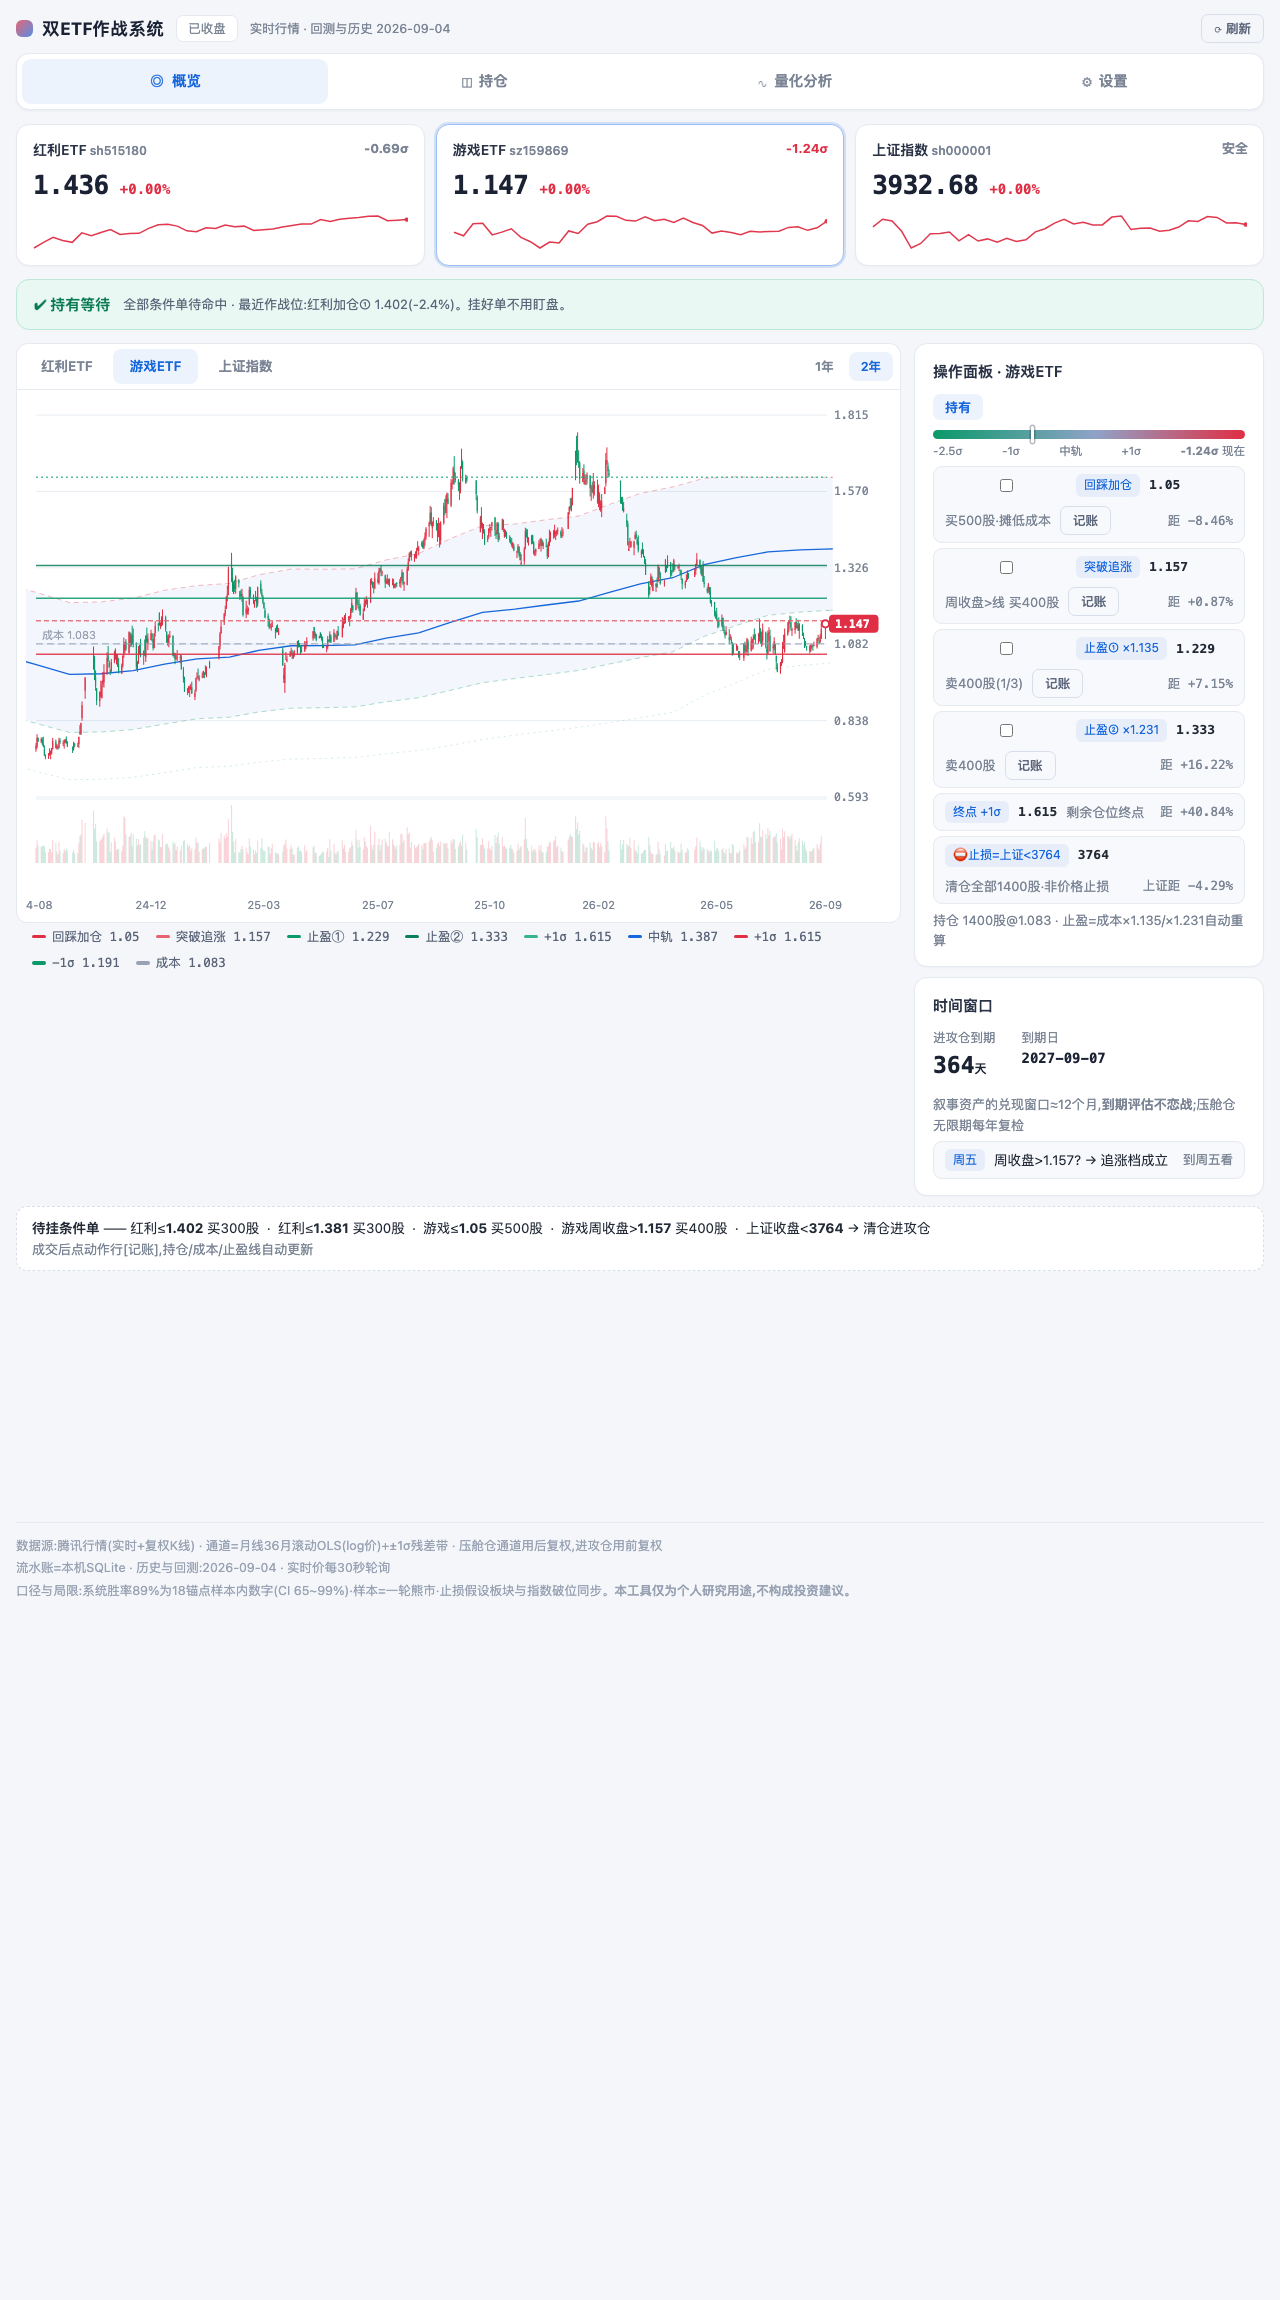
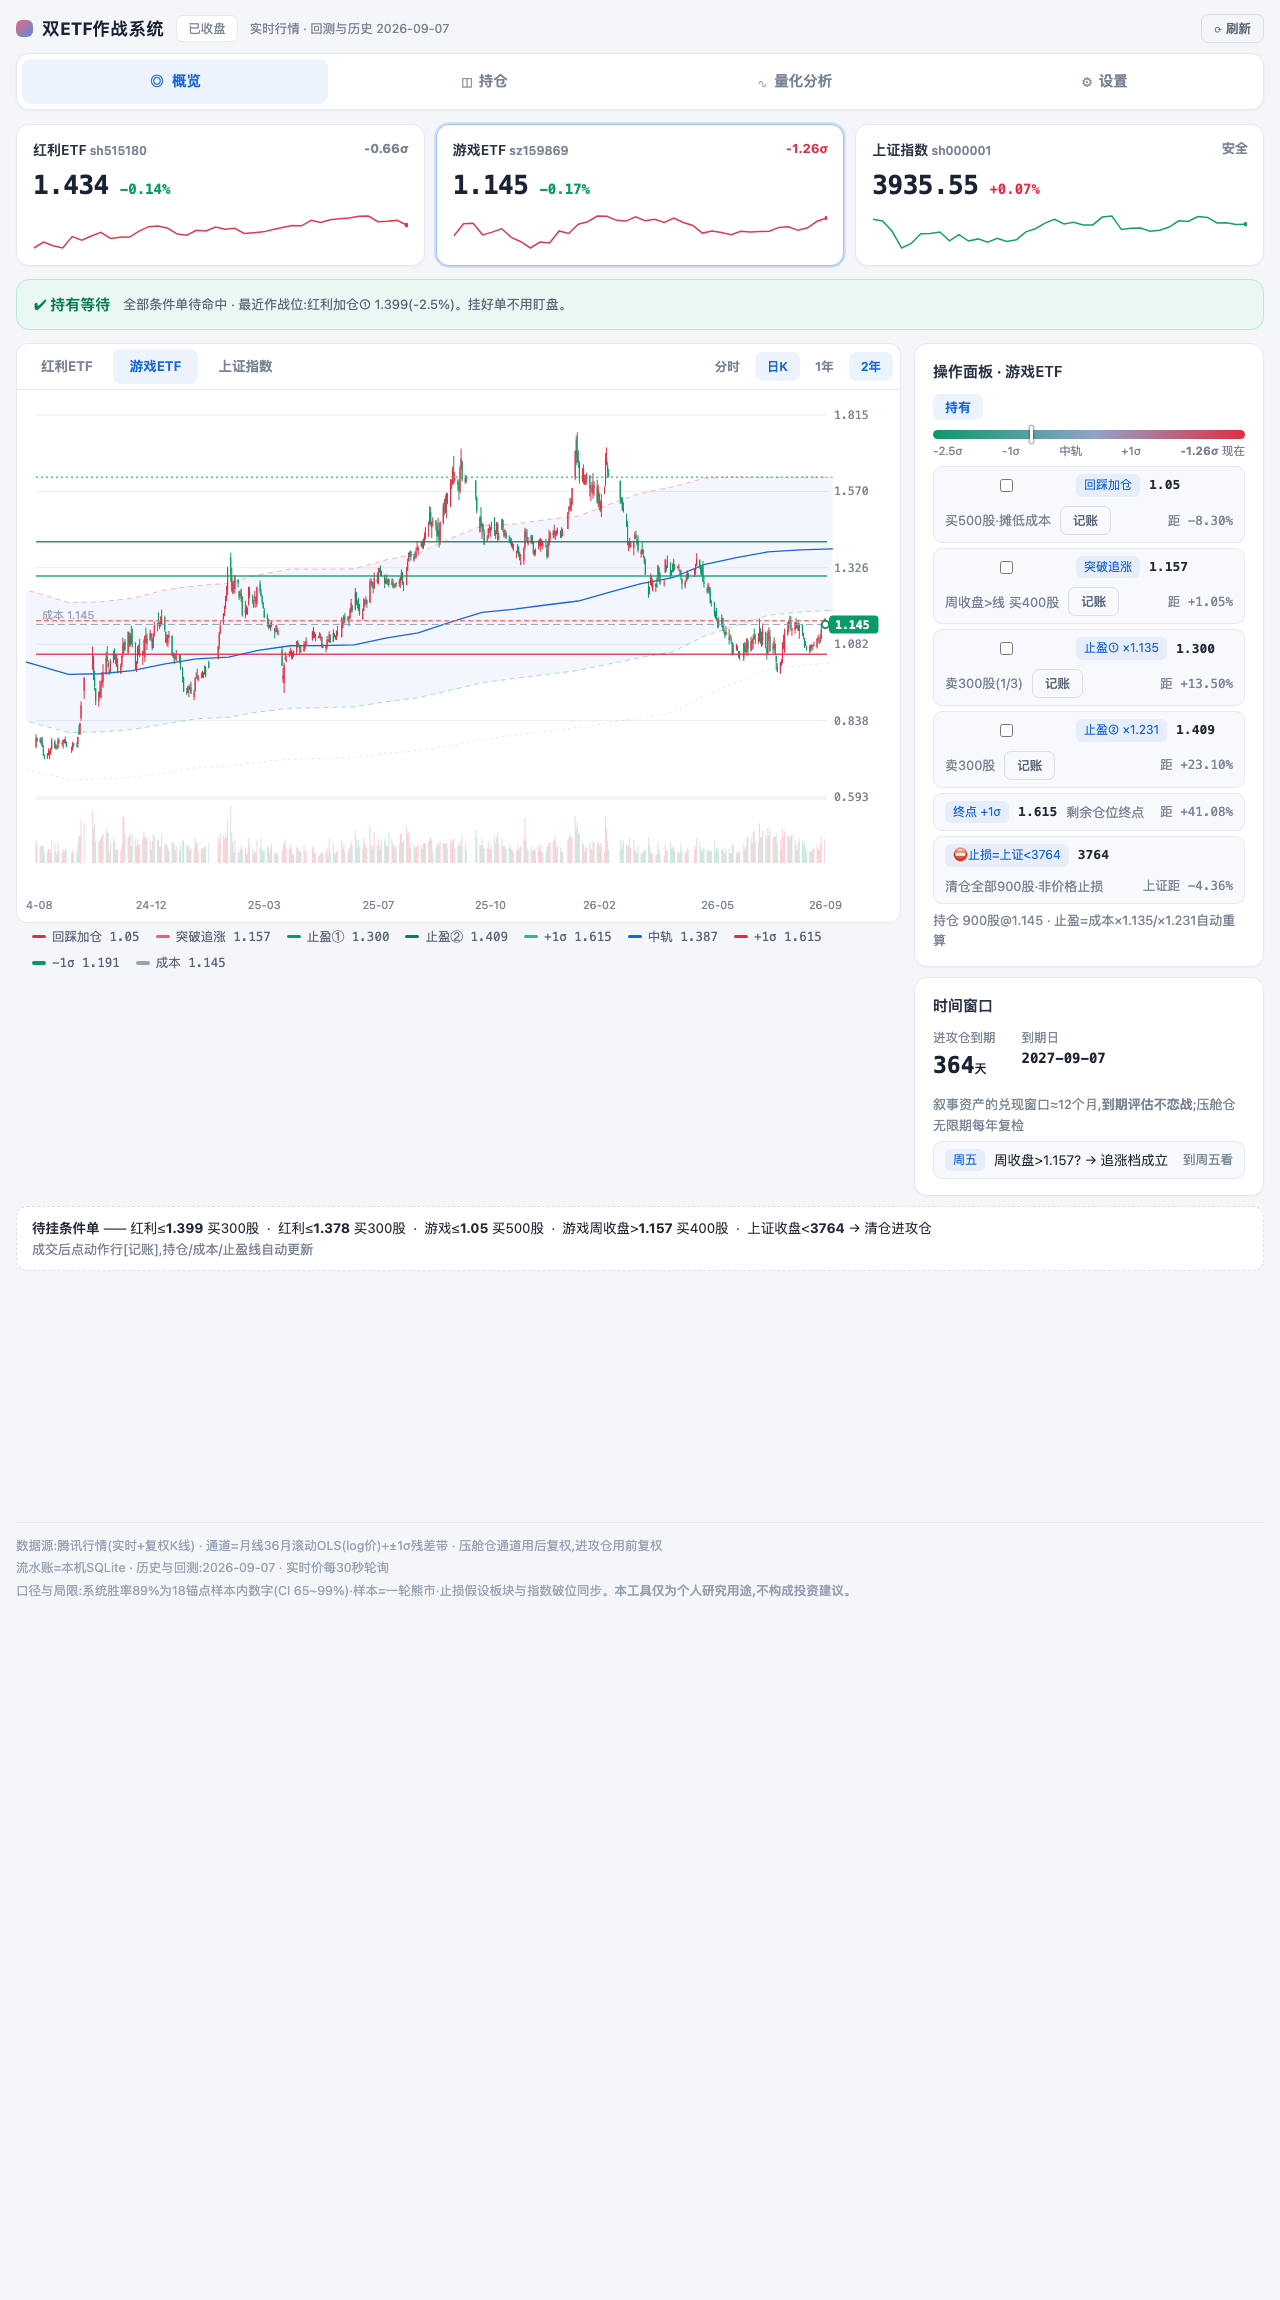
v6 分时图+账户初始化
- 分时/日K模式切换:腾讯minute/query接口(服务端20秒缓存),经典A股分时样式——价格线+VWAP均价线+昨收基准线+分钟量柱
- 242分钟槽位(午休压缩),开市后逐分钟滚动,模式记忆localStorage
- K线/分时/1年/2年统一在图表Tab行切换;悬停显示时间/价格/涨跌%/量

diff --git a/frontend/js/charts.js b/frontend/js/charts.js
@@ -221,3 +221,107 @@ export function drawCurve(containerId, o) {
   });
   svg.addEventListener('mouseleave', () => { tip.style.display = 'none'; });
 }
+
+// 分时图:价格线+均价线(VWAP)+昨收基准+量(经典A股分时)
+export function drawIntraday(containerId, o) {
+  const el = document.getElementById(containerId);
+  const W = Math.max(el.clientWidth || 920, 620);
+  const H = o.height || 520;
+  const M = { l: 10, r: 64, t: 16, b: 46 };
+  const VH = 64;
+  const pts = o.points || [];
+  if (!pts.length) { el.innerHTML = '<div style="padding:60px;color:#7a8494;text-align:center">暂无分时数据(未开市或数据未生成)</div>'; return; }
+  const prev = o.prev != null ? o.prev : pts[0][1];
+  // 分钟槽位:上午09:30-11:30(0-120),下午13:00-15:00(121-241)
+  const slot = hm => {
+    const h = +hm.slice(0, 2), m = +hm.slice(2, 4);
+    if (h < 12) return Math.max(0, (h - 9) * 60 + m - 30);
+    return 121 + (h - 13) * 60 + m;
+  };
+  const SLOTS = 242;
+  const vy0 = H - M.b;
+  // VWAP
+  const vwap = [];
+  let pv = 0, vv = 0, lastCum = 0;
+  const vols = [];
+  for (const [, p, cum] of pts) {
+    const v = Math.max(cum - lastCum, 0); lastCum = cum;
+    vols.push(v); pv += p * v; vv += v;
+    vwap.push(vv > 0 ? pv / vv : p);
+  }
+  const prices = pts.map(r => r[1]);
+  const all = prices.concat(vwap, [prev]);
+  let ymin = Math.min(...all), ymax = Math.max(...all);
+  const pad = (ymax - ymin) * 0.08 || 0.002; ymin -= pad; ymax += pad;
+  const PH = H - M.t - M.b - VH - 8;
+  const X = i => M.l + (slot(pts[i][0]) / SLOTS) * (W - M.l - M.r);
+  const Y = v => M.t + (ymax - v) / (ymax - ymin) * PH;
+  const vmax = Math.max(...vols, 1);
+  const VY = v => vy0 - v / vmax * VH;
+  const yfmt = o.yfmt || (v => v.toFixed(3));
+  const up = prices[prices.length - 1] >= prev;
+
+  let s = `<svg viewBox="0 0 ${W} ${H}" preserveAspectRatio="xMidYMid meet" style="background:${CHART_BG};border-radius:11px">`;
+  // 网格:横5条+竖4条(9:30/10:30/11:30-13:00/14:00/15:00)
+  for (let i = 0; i <= 4; i++) {
+    const v = ymin + (ymax - ymin) * i / 4, y = Y(v);
+    s += `<line x1="${M.l}" y1="${y}" x2="${W - M.r}" y2="${y}" stroke="${C.grid}"/>`
+      + `<text x="${W - M.r + 7}" y="${y + 4}" fill="${C.txt}" font-size="11.5" font-family="Menlo,monospace">${yfmt(v)}</text>`;
+  }
+  const xticks = [['0930', 0], ['1030', 60], ['1130/1300', 120], ['1400', 181], ['1500', SLOTS]];
+  for (const [lab, sl] of xticks.slice(0, -1)) {
+    const x = M.l + sl / SLOTS * (W - M.l - M.r);
+    s += `<line x1="${x}" y1="${M.t}" x2="${x}" y2="${vy0}" stroke="${C.grid}" stroke-dasharray="2 4"/>`
+      + `<text x="${x}" y="${H - 10}" fill="${C.txt}" font-size="11" text-anchor="middle">${lab}</text>`;
+  }
+  const xe = M.l + (W - M.l - M.r);
+  s += `<text x="${xe}" y="${H - 10}" fill="${C.txt}" font-size="11" text-anchor="end">15:00</text>`;
+  s += `<line x1="${M.l}" y1="${vy0 - VH - 6}" x2="${W - M.r}" y2="${vy0 - VH - 6}" stroke="${C.grid}"/>`;
+  // 昨收基准线
+  s += `<line x1="${M.l}" y1="${Y(prev)}" x2="${W - M.r}" y2="${Y(prev)}" stroke="#98a2b3" stroke-width="1" stroke-dasharray="6 4"/>`;
+  // 量柱(涨红跌绿)
+  for (let i = 0; i < pts.length; i++) {
+    const x = X(i);
+    const col = i > 0 ? (pts[i][1] >= pts[i - 1][1] ? C.up : C.down) : C.up;
+    const v = vols[i];
+    if (v > 0) s += `<rect x="${x - 1}" y="${VY(v)}" width="2" height="${vy0 - VY(v)}" fill="${col}" opacity=".22"/>`;
+  }
+  // 均价线(VWAP)
+  s += `<polyline points="${vwap.map((v, i) => X(i) + ',' + Y(v)).join(' ')}" fill="none" stroke="#d97706" stroke-width="1.2" opacity=".9"/>`;
+  // 价格线
+  s += `<polyline points="${prices.map((v, i) => X(i) + ',' + Y(v)).join(' ')}" fill="none" stroke="${C.accent}" stroke-width="1.6"/>`;
+  // 现价点+右侧气泡
+  const li = pts.length - 1;
+  const col = up ? C.up : C.down;
+  s += `<circle cx="${X(li)}" cy="${Y(prices[li])}" r="3.4" fill="#fff" stroke="${col}" stroke-width="2"><animate attributeName="r" values="3.4;5.2;3.4" dur="2s" repeatCount="indefinite"/></circle>`;
+  const by = Math.max(M.t + 10, Math.min(Y(prices[li]), vy0 - VH - 12));
+  const bw2 = (yfmt(prices[li]) + '').length * 7.5 + 12;
+  s += `<rect x="${W - M.r + 2}" y="${by - 9}" width="${bw2}" height="18" rx="4" fill="${col}"/>`
+    + `<text x="${W - M.r + 8}" y="${by + 4.5}" fill="#fff" font-size="11.5" font-weight="700" font-family="Menlo,monospace">${yfmt(prices[li])}</text>`;
+  s += `<line id="${containerId}-cross" x1="0" x2="0" y1="${M.t}" y2="${vy0}" stroke="${C.cross}" stroke-width="1" visibility="hidden"/>`;
+  s += `</svg>`;
+  // 图例
+  const lg = [[C.accent, '价格'], ['#d97706', '均价线'], ['#98a2b3', `昨收 ${yfmt(prev)}`]];
+  if (o.date) lg.push(['#b3bdc9', o.date.slice(4, 6) + '-' + o.date.slice(6, 8) + ' 分时']);
+  const legend = `<div class="clegend">${lg.map(([c, t2]) => `<span class="li"><i style="background:${c}"></i>${t2}</span>`).join('')}</div>`;
+  el.innerHTML = s + legend + `<div class="tip"></div>`;
+  // 悬停
+  const svg = el.querySelector('svg'), tip = el.querySelector('.tip'), cross = el.querySelector('#' + containerId + '-cross');
+  svg.addEventListener('mousemove', e => {
+    const r = svg.getBoundingClientRect();
+    const vx = (e.clientX - r.left) * (W / r.width);
+    if (vx < M.l || vx > W - M.r) { tip.style.display = 'none'; cross.setAttribute('visibility', 'hidden'); return; }
+    const sl = (vx - M.l) / (W - M.l - M.r) * SLOTS;
+    let best = 0, bd = 1e9;
+    for (let i = 0; i < pts.length; i++) { const d = Math.abs(slot(pts[i][0]) - sl); if (d < bd) { bd = d; best = i; } }
+    cross.setAttribute('x1', X(best)); cross.setAttribute('x2', X(best)); cross.setAttribute('visibility', 'visible');
+    const p = pts[best][1], chg = (p / prev - 1) * 100;
+    tip.style.display = 'block';
+    tip.innerHTML = `<b>${pts[best][0].slice(0, 2)}:${pts[best][0].slice(2, 4)}</b> · <b>${yfmt(p)}</b> `
+      + `<span style="color:${chg >= 0 ? C.up : C.down}">${chg >= 0 ? '+' : ''}${chg.toFixed(2)}%</span><br>`
+      + `量 ${(vols[best] / 1e4).toFixed(1)}万手`;
+    tip.style.left = Math.min(Math.max(e.clientX - r.left + 14, 0), r.width - 185) + 'px';
+    tip.style.top = (e.clientY - r.top - 36) + 'px';
+  });
+  svg.addEventListener('mouseleave', () => { tip.style.display = 'none'; cross.setAttribute('visibility', 'hidden'); });
+}

diff --git a/frontend/js/views/dashboard.js b/frontend/js/views/dashboard.js
@@ -1,6 +1,6 @@
 // 概览:报价条 → 建议横幅 → 大图表(Tab切换) + 操作面板 → 待办
 import { store } from '../store.js';
-import { drawChart, drawSpark } from '../charts.js';
+import { drawChart, drawIntraday, drawSpark } from '../charts.js';
 import { actRow, sigmaGauge, toast, openTradeModal } from '../ui.js';
 import { ledger } from '../ledger.js';
 import { api } from '../api.js';
@@ -9,6 +9,7 @@ import { fmt } from '../config.js';
 const $ = id => document.getElementById(id);
 let chartSym = localStorage.getItem('sa_chart_sym') || 'games';
 let chartDays = +(localStorage.getItem('sa_chart_days') || 500);
+let chartMode = localStorage.getItem('sa_chart_mode') || 'daily';
 const SYMS = ['dividend', 'games', 'sse'];
 if (!SYMS.includes(chartSym)) chartSym = 'games';
 window.setChartSym = k => {
@@ -21,6 +22,24 @@ window.setChartDays = d => {
   localStorage.setItem('sa_chart_days', d);
   store.notify();
 };
+window.setChartMode = m => {
+  chartMode = m;
+  localStorage.setItem('sa_chart_mode', m);
+  store.notify();
+};
+let _fetchingIntraday = false;
+async function ensureIntraday(sym) {
+  const s = store.state;
+  if (_fetchingIntraday) return;
+  const cur = s.intraday;
+  if (cur && cur.key === sym && Date.now() - cur.ts < 25000) return;
+  _fetchingIntraday = true;
+  try {
+    const data = await api.intraday(sym);
+    store.set({ intraday: { key: sym, ts: Date.now(), data } });
+  } catch (e) { /* 离线忽略 */ }
+  _fetchingIntraday = false;
+}
 
 export function renderDashboard(root) {
   const s = store.state;
@@ -94,8 +113,10 @@ export function renderDashboard(root) {
       <div class="ctabs">
         ${SYMS.map(k => `<button class="${chartSym === k ? 'on' : ''}" onclick="setChartSym('${k}')">${symNames[k]}</button>`).join('')}
         <span class="sp"></span>
-        <button class="rbtn ${chartDays === 250 ? 'on' : ''}" onclick="setChartDays(250)">1年</button>
-        <button class="rbtn ${chartDays === 500 ? 'on' : ''}" onclick="setChartDays(500)">2年</button>
+        <button class="rbtn ${chartMode === 'intraday' ? 'on' : ''}" onclick="setChartMode('intraday')">分时</button>
+        <button class="rbtn ${chartMode === 'daily' ? 'on' : ''}" onclick="setChartMode('daily')">日K</button>
+        ${chartMode === 'daily' ? `<button class="rbtn ${chartDays === 250 ? 'on' : ''}" onclick="setChartDays(250)">1年</button>
+        <button class="rbtn ${chartDays === 500 ? 'on' : ''}" onclick="setChartDays(500)">2年</button>` : ''}
       </div>
       <div class="chartwrap"><div class="ct chartbox" id="ch-main"></div></div>
     </div>
@@ -221,8 +242,18 @@ export function renderDashboard(root) {
   };
   const el = document.getElementById('ch-main');
   if (el) {
-    const cfg = chartCfg[chartSym]();
-    drawChart('ch-main', Object.assign({ height: 520 }, cfg));
+    if (chartMode === 'intraday') {
+      ensureIntraday(chartSym);
+      const it = store.state.intraday;
+      if (it && it.key === chartSym && it.data && it.data.points && it.data.points.length) {
+        drawIntraday('ch-main', { points: it.data.points, prev: it.data.prev, date: it.data.date, height: 520, yfmt: chartSym === 'sse' ? (v => v.toFixed(0)) : undefined });
+      } else {
+        el.innerHTML = '<div style="padding:80px 20px;color:#7a8494;text-align:center;font-size:13px">分时数据加载中…(开市后逐分钟滚动)</div>';
+      }
+    } else {
+      const cfg = chartCfg[chartSym]();
+      drawChart('ch-main', Object.assign({ height: 520 }, cfg));
+    }
   }
 }
 

diff --git a/frontend/js/api.js b/frontend/js/api.js
@@ -10,6 +10,7 @@ async function req(path, opts) {
 }
 export const api = {
   quotes: () => req('/api/quotes'),
+  intraday: key => req(`/api/intraday?sym=${key}`),
   data: () => req('/api/data'),
   stats: () => req('/api/stats'),
   statsRefresh: () => req('/api/stats?refresh=1'),   // 强制重抓K线+重算回测

diff --git a/backend/services/intraday.py b/backend/services/intraday.py
@@ -1,0 +1,30 @@
+# 分时数据:腾讯 minute/query(当日分钟线,含昨收)
+import time
+
+import curl_cffi.requests as cr
+
+BASE = "https://web.ifzq.gtimg.cn/appstock/app/minute/query"
+_cache: dict = {}   # code -> (ts, payload)
+
+
+def get_minute(code: str, ttl: int = 20) -> dict:
+    """返回 {date, prev, points:[[HHMM, price, cumvol]...]}。缓存20秒。"""
+    now = time.time()
+    if code in _cache and now - _cache[code][0] < ttl:
+        return _cache[code][1]
+    r = cr.get(BASE, params={"code": code}, impersonate="chrome", timeout=8)
+    j = r.json()
+    d = j["data"][code]
+    pts = []
+    for p in d["data"]["data"]:
+        f = p.split()
+        if len(f) >= 3:
+            pts.append([f[0], float(f[1]), float(f[2])])
+    prev = None
+    try:
+        prev = float(d["qt"][code][4])
+    except Exception:
+        pass
+    out = {"date": d["data"]["date"], "prev": prev, "points": pts}
+    _cache[code] = (now, out)
+    return out

diff --git a/backend/app.py b/backend/app.py
@@ -18,7 +18,7 @@ from pydantic import BaseModel
 
 from . import storage
 from .config import RULES, SYMBOLS, POLL_SECONDS
-from .services import backtest, channel, kline, quotes
+from .services import backtest, channel, intraday, kline, quotes
 
 RULES_FILE = Path(__file__).parent / "data" / "rules_override.json"
 
@@ -146,6 +146,17 @@ def api_ledger_put(body: LedgerRows):
 @app.post("/api/ledger/demo")
 def api_ledger_demo():
     return {"ok": True, "count": storage.seed_demo()}
+
+
+@app.get("/api/intraday")
+def api_intraday(sym: str):
+    """当日分时(分钟价+累计量+昨收),缓存20秒。"""
+    if sym not in SYMBOLS:
+        raise HTTPException(404, f"未知标的 {sym}")
+    try:
+        return intraday.get_minute(SYMBOLS[sym]["code"])
+    except Exception as e:
+        raise HTTPException(502, f"分时获取失败: {e}")
 
 
 @app.get("/api/rules")

diff --git a/README.md b/README.md
@@ -15,7 +15,7 @@
 | ![量化](docs/screenshots/quant.png) | ![设置](docs/screenshots/settings.png) |
 
 **四个页面**(桌面顶部导航/手机底部Tab):
-- **概览**——三标的报价条(sparkline+σ位置)+ 一句话建议横幅 + 大图表(520px高:蜡烛/成交量/通道带/作战位,1年/2年切换,点击报价卡换标的,图例条防堆叠) + 操作面板(作战位距离+一键记账)
+- **概览**——三标的报价条(sparkline+σ位置)+ 一句话建议横幅 + 大图表(520px高:**分时/日K切换**——分时=价格线+均价线+昨收基准+量柱,日K=蜡烛+成交量+通道带+作战位1年/2年,点击报价卡换标的) + 操作面板(作战位距离+一键记账)
 - **持仓**——仓位卡(浮盈/加权成本/买卖息快捷键)+ 配置结构对比 + 账户收益曲线(流水逐日回放,净值vs累计入金)+ 交易流水(chip化动作)
 - **量化分析**——胜率大数字卡(系统层/中段/尾段/最差)+ σ分区查表 + 五种加仓方式对比 + 追涨事件检验 + P(修复)情境滑块
 - **设置**——规则参数可视化编辑(**保存即用新参数重算全部回测**)、数据维护、关于

diff --git a/DEVELOPMENT.md b/DEVELOPMENT.md
@@ -174,6 +174,7 @@ print(stats['system'])"
 - 配色纪律:**强调色一种(蓝)、语义色三种(涨红/跌绿/警示黄)**;作战位线颜色=动作语义(加仓=红族、止盈/减仓=绿族);权重条蓝/金/灰(压舱/进攻/现金)与涨跌色不混淆
 - **图表防堆叠(v5关键)**:右侧只留价格刻度(M.r=64,绘图区最大化);作战位/通道/成本/MA20的文字标签全部移到图下方**图例条**(.clegend,色块+名称,自动换行);实时价做成右侧价格轴上的彩色气泡(TradingView式)
 - 图表高度520px,支持1年/2年切换(sa_chart_days),窗口内通道点过滤(y轴不被窗口外旧值撑开)
+- **分时图(v6)**:`GET /api/intraday?sym=`(腾讯minute/query,服务端缓存20秒)→ drawIntraday:价格线+VWAP均价线+昨收基准+分钟量柱,242槽位(上午121+下午121,午休压缩),开市后逐分钟滚动;模式存localStorage(sa_chart_mode)
 - 字号纪律:正文15px,次要13px,表格13.5px,chip/tag≥12px,坐标轴≥11px,数字全部Menlo等宽
 - 移动端(<768px):底部Tab、报价卡单列、图表430px高
 
